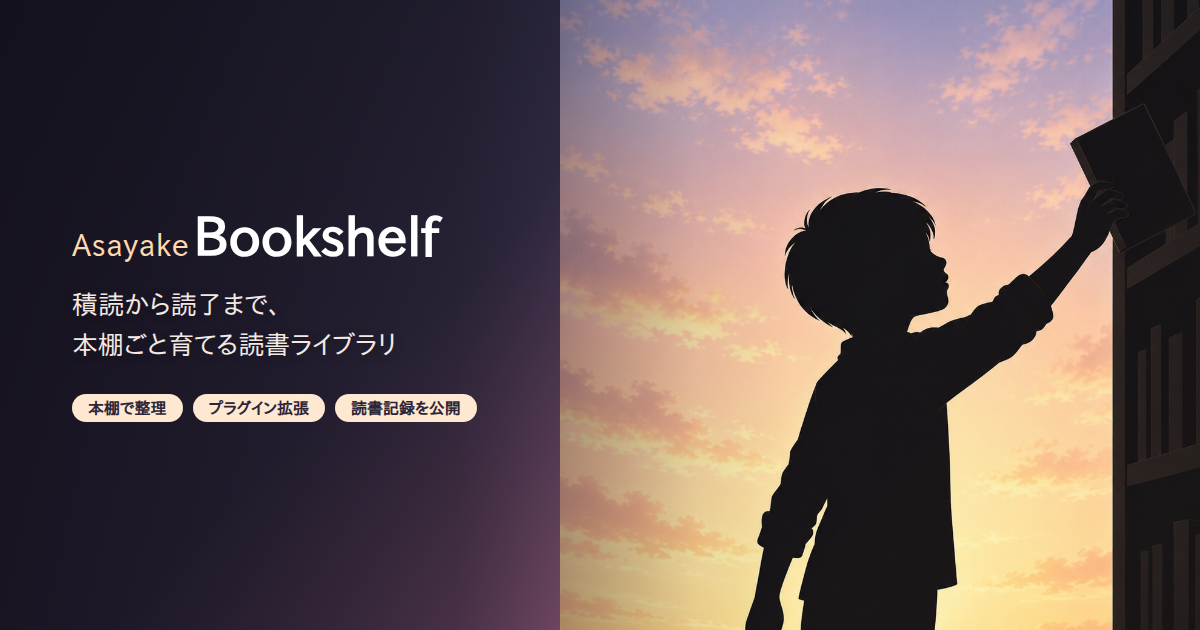
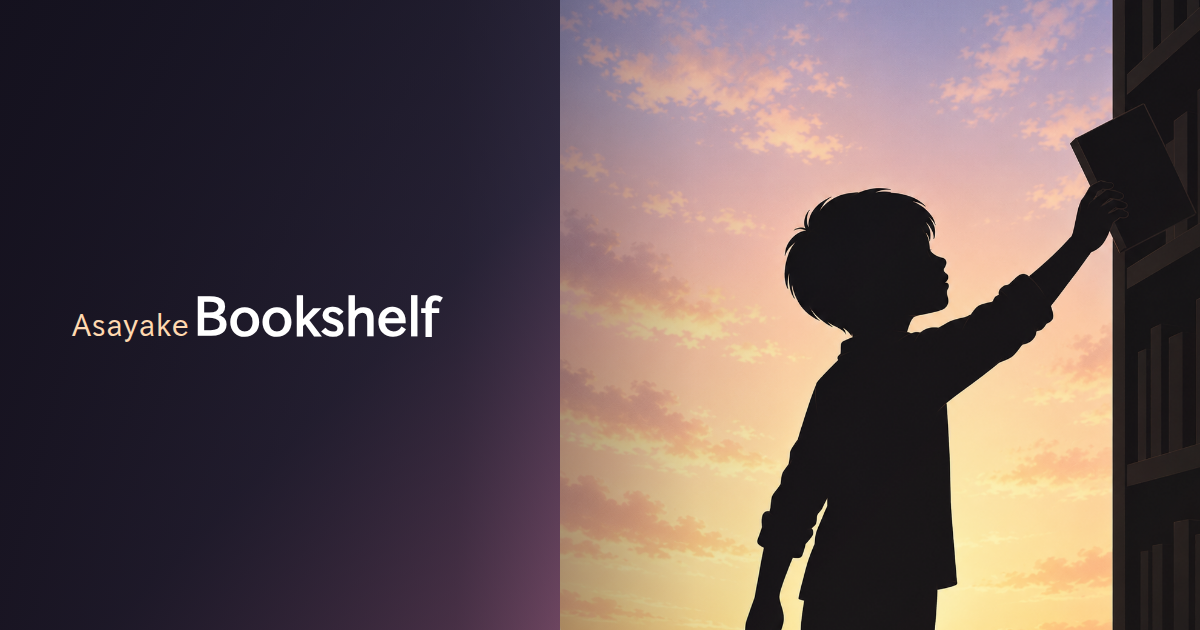
fix: T11 OGP画像を文言無しのロゴのみに・説明文を仮の機能列挙文言に統一 (ハヘロ決裁反映・イシュー#335)
ハヘロ決裁(10/24 03:22)「共有画像のデザインは概ね良いが文言に課題あり。コンセプトを明確にして
宣伝用記事作成などをしながら文言を固める」を受け、文言が固まるまでの仮対応。

- mockups/og-export.html・icons/og-image.png: キャッチ2行とバッジ3つを撤去。
  ロゴ(Asayake Bookshelf)と朝焼けイラストのみ。デザイン(配色・構図・左右の割り)は維持。
  ロゴは左ペインの縦中央に配置(座標で確認: word中心y=315, canvas中心y=315, diff=0)。
- index.html: <title>を案1「AsayakeBookshelf」に戻す。
- description/og:description/twitter:description/JSON-LDのdescriptionを、宣伝調を避けた
  仮の機能列挙文言に統一(「Kindle の蔵書を本棚ごとに整理し、メモや評価を付けて、読書記録を
  公開できるアプリ。」)。4箇所とも同一文字列。
- js/publish-article-generator.js: PROVISIONAL_DESCRIPTION定数を追加し、本棚トップ
  (_indexHtml)のog:description/JSON-LD descriptionもこれに統一(動的な「N件」文言から変更)。
  SHARED_OG_IMAGEの?v=を2026102402へバンプ。
- cf-worker/top-page.js: 同じPROVISIONAL_DESCRIPTION定数を追加(値は同文・別ファイルのため
  手動同期)し、/topの既定descriptionに適用。OG_IMAGE_URLの?v=も2026102402へバンプ。
- README.mdのキャッチも同じ仮の文言に揃える。
- scripts/verify/shot-335-ogp-compare.mjs: 比較画像(335-ogp-compare-AB.png)を同じパスで
  作り直し。

npm test 644件・publish-panel/publish-article-theme E2E 22件・check:versionいずれもpass。

push はまだしない。main には #337(ce2d1e6)等のレビュー中commitが積まれており、push順は②が決める。

Changed region(s): [[0.0617, 0.4524, 0.37, 0.573], [0.0617, 0.6032, 0.4008, 0.6937], [0.0617, 0.3317, 0.37, 0.4222]]

diff --git a/index.html b/index.html
@@ -3,8 +3,12 @@
 <head>
     <meta charset="UTF-8">
     <meta name="viewport" content="width=device-width, initial-scale=1.0, viewport-fit=cover">
-    <title>AsayakeBookshelf — 本棚で育てる読書ライブラリ</title>
-    <meta name="description" content="蔵書を本棚ごとに整理し、メモや評価をつけて管理できる読書ライブラリ。プラグインで拡張、読書記録の公開・共有もできます。">
+    <title>AsayakeBookshelf</title>
+    <!-- 仮の説明文 (T11・イシュー#335・2026-10-24 ②判断)。ハヘロ決裁「文言はコンセプトを詰める別作業で固める」まで、
+         宣伝調を避け機能だけを並べた文言に統一する。この下の4箇所 (description/og:description/twitter:description/
+         JSON-LDのdescription) は同一文字列＝差し替え時はこの4箇所をまとめて書き換える
+         (js/publish-article-generator.js の PublishArticleGenerator.PROVISIONAL_DESCRIPTION と同文)。 -->
+    <meta name="description" content="Kindle の蔵書を本棚ごとに整理し、メモや評価を付けて、読書記録を公開できるアプリ。">
     <link rel="canonical" href="https://asayake.org/bookshelf/">
     <meta name="robots" content="index,follow">
     <!-- Google AdSense（審査用スニペットのみ・広告ユニットは配置しない方針 2026-07-29） -->
@@ -16,17 +20,17 @@
 
     <!-- Open Graph / Twitter Card for social sharing (T11・イシュー#335) -->
     <meta property="og:title" content="AsayakeBookshelf">
-    <meta property="og:description" content="蔵書を本棚ごとに整理し、メモや評価をつけて管理できる読書ライブラリ。プラグインで拡張、読書記録の公開・共有もできます。">
+    <meta property="og:description" content="Kindle の蔵書を本棚ごとに整理し、メモや評価を付けて、読書記録を公開できるアプリ。">
     <meta property="og:type" content="website">
     <meta property="og:url" content="https://asayake.org/bookshelf/">
-    <meta property="og:image" content="https://asayake.org/bookshelf/icons/og-image.png?v=20261024">
+    <meta property="og:image" content="https://asayake.org/bookshelf/icons/og-image.png?v=2026102402">
     <meta property="og:image:width" content="1200">
     <meta property="og:image:height" content="630">
     <meta property="og:image:alt" content="AsayakeBookshelf">
     <meta name="twitter:card" content="summary_large_image">
     <meta name="twitter:title" content="AsayakeBookshelf">
-    <meta name="twitter:description" content="蔵書を本棚ごとに整理し、メモや評価をつけて管理できる読書ライブラリ。プラグインで拡張、読書記録の公開・共有もできます。">
-    <meta name="twitter:image" content="https://asayake.org/bookshelf/icons/og-image.png?v=20261024">
+    <meta name="twitter:description" content="Kindle の蔵書を本棚ごとに整理し、メモや評価を付けて、読書記録を公開できるアプリ。">
+    <meta name="twitter:image" content="https://asayake.org/bookshelf/icons/og-image.png?v=2026102402">
 
     <!-- 構造化データ (JSON-LD・T11) -->
     <script type="application/ld+json">
@@ -34,7 +38,7 @@
       "@context": "https://schema.org",
       "@type": "WebApplication",
       "name": "AsayakeBookshelf",
-      "description": "蔵書を本棚ごとに整理し、メモや評価をつけて管理できる読書ライブラリ。プラグインで拡張、読書記録の公開・共有もできます。",
+      "description": "Kindle の蔵書を本棚ごとに整理し、メモや評価を付けて、読書記録を公開できるアプリ。",
       "url": "https://asayake.org/bookshelf/",
       "applicationCategory": "UtilitiesApplication",
       "operatingSystem": "Web",
@@ -1428,7 +1432,7 @@
     <script defer src="js/publish-article-store.js?v=2026093001"></script>
     <script defer src="js/vendor/marked.umd.js?v=2026081501"></script>
     <script defer src="js/publish-ogp-image.js?v=2026102401"></script>
-    <script defer src="js/publish-article-generator.js?v=2026102401"></script>
+    <script defer src="js/publish-article-generator.js?v=2026102402"></script>
     <script defer src="js/exporter.js?v=2026092601"></script>
     <script defer src="js/plugin-api.js?v=2026092601"></script>
     <script defer src="js/plugin-loader.js?v=2026072701"></script>

diff --git a/js/publish-article-generator.js b/js/publish-article-generator.js
@@ -774,8 +774,9 @@ ${updated ? `<p class="pub-updated">最終更新 ${esc(updated)}</p>` : ''}
         const indexArticle = { title: `${publisher} の本棚`, tags: [], theme: {} };
         const indexCanonical = opts.siteBaseUrl ? `${String(opts.siteBaseUrl).replace(/\/+$/, '')}/` : '';
         // 一覧ページなので og:type は article ではなく website (T11・イシュー#335で修正)。
-        // ogDescription/ogImage は本棚ごとの個別生成ではなく、全ページ共通のブランド画像を使う(決裁B案)。
-        const indexOgDescription = `${publisher} が AsayakeBookshelf で公開している本棚記事、${articleLinks.length}件。`;
+        // ogDescription/ogImage は本棚ごとの個別生成ではなく、全ページ共通のブランド画像・仮の説明文を使う
+        // (決裁B案。文言は2026-10-24 ②判断でPROVISIONAL_DESCRIPTIONへ統一＝コンセプトが固まったら差し替える)。
+        const indexOgDescription = PublishArticleGenerator.PROVISIONAL_DESCRIPTION;
         const doc = this._wrapDoc(indexArticle, publisher, body, {
             siteHasAffiliate: !!opts.siteHasAffiliate,
             canonical: indexCanonical,
@@ -836,7 +837,14 @@ ${updated ? `<p class="pub-updated">最終更新 ${esc(updated)}</p>` : ''}
     // 本棚トップ(_indexHtml)・/top 共通のブランドOGP画像の絶対URL (T11・イシュー#335決裁B案)。
     // 記事別の自前生成(ADR-098・og.png)とは別物＝記事ページでは使わない。GitHub Pages配信のicons/を
     // そのまま参照するためcf-worker側の追加ホスティングは不要。
-    static get SHARED_OG_IMAGE() { return `${PublishArticleGenerator.APP_URL}icons/og-image.png?v=20261024`; }
+    // ?v= は画像を差し替えるたびに上げる (2026-10-24: キャッチ文言・バッジを外しロゴのみに変更)。
+    static get SHARED_OG_IMAGE() { return `${PublishArticleGenerator.APP_URL}icons/og-image.png?v=2026102402`; }
+
+    // 仮の説明文 (T11・イシュー#335・2026-10-24 ②判断)。ハヘロ決裁「共有画像のデザインは概ね良いが文言に
+    // 課題あり。コンセプトを明確にして宣伝用記事作成などをしながら文言を固める」を受け、固まるまでは
+    // 宣伝調を避け機能だけを並べた仮の文言に統一する。index.html の description/og:description/
+    // twitter:description/JSON-LDのdescription (4箇所・同一文字列) と同文＝差し替え時は両方を直す。
+    static get PROVISIONAL_DESCRIPTION() { return 'Kindle の蔵書を本棚ごとに整理し、メモや評価を付けて、読書記録を公開できるアプリ。'; }
 
     // og:description: 本文先頭のテキストブロックから約120字 (Markdown 記号は除く)。無ければタグ列、それも無ければ発行者名。
     _ogDescription(article, resolvedBlocks, publisher) {

diff --git a/cf-worker/top-page.js b/cf-worker/top-page.js
@@ -9,7 +9,14 @@ import { OPERATOR_EMAIL } from './suspended-page.js';
 // 全ページ共通のブランドOGP画像 (T11・イシュー#335決裁B案)。GitHub Pages配信の
 // js/publish-article-generator.js `SHARED_OG_IMAGE` と同一アセット・同一URLを指す
 // (cf-worker からは別ファイルのため定数を共有できず、ここは値を直書きで同期する)。
-const OG_IMAGE_URL = 'https://asayake.org/bookshelf/icons/og-image.png?v=20261024';
+// ?v= は画像を差し替えるたびに上げる (2026-10-24: キャッチ文言・バッジを外しロゴのみに変更)。
+const OG_IMAGE_URL = 'https://asayake.org/bookshelf/icons/og-image.png?v=2026102402';
+
+// 仮の説明文 (T11・イシュー#335・2026-10-24 ②判断)。ハヘロ決裁「共有画像のデザインは概ね良いが文言に
+// 課題あり。コンセプトを明確にして宣伝用記事作成などをしながら文言を固める」を受け、固まるまでは
+// 宣伝調を避け機能だけを並べた仮の文言に統一する。js/publish-article-generator.js の
+// PublishArticleGenerator.PROVISIONAL_DESCRIPTION と同文＝差し替え時は両方を直す。
+const PROVISIONAL_DESCRIPTION = 'Kindle の蔵書を本棚ごとに整理し、メモや評価を付けて、読書記録を公開できるアプリ。';
 
 function escapeHtml(s) {
     return String(s == null ? '' : s).replace(/[&<>"']/g, (c) => ({ '&': '&amp;', '<': '&lt;', '>': '&gt;', '"': '&quot;', "'": '&#39;' }[c]));
@@ -50,7 +57,7 @@ export async function renderTopPage(env, url) {
     const clearTag = tag ? `<a class="clear-tag" href="/top">すべての記事に戻る</a>` : '';
     const description = tag
         ? `「#${tag}」タグの公開記事一覧です。`
-        : 'AsayakeBookshelf で公開された本棚記事の一覧です。';
+        : PROVISIONAL_DESCRIPTION;
     const canonical = `${url.origin}/top${tag ? `?tag=${encodeURIComponent(tag)}` : ''}`;
     const jsonLd = {
         '@context': 'https://schema.org',

diff --git a/mockups/og-export.html b/mockups/og-export.html
@@ -4,6 +4,7 @@
   icons/source-art.png（ADR-025採用のイラスト）を右側に配置し、左の朝焼け空の余白にロゴ文字を置く。
   配色は08_意思決定記録.md ADR-025「朝焼けパレット」(夜空 #181b2c→#4a3b4e / グロー #ff9e7d / 暖色 #ffecd2→#fcb69f) を踏襲。
   使い方: file:// または http://localhost:8000/mockups/og-export.html を1200x630で開き、.canvas要素をスクショする。
+  2026-10-24 ハヘロ決裁(文言は別作業で固める)によりキャッチ2行・バッジ3つを撤去。ロゴのみ・左ペイン縦中央(#333)。
 -->
 <html lang="ja">
 <head>
@@ -29,12 +30,9 @@
     position: absolute; left: 72px; top: 0; bottom: 0; width: 640px;
     display: flex; flex-direction: column; justify-content: center;
   }
-  .word { display: flex; align-items: baseline; gap: 4px; margin-bottom: 22px; }
+  .word { display: flex; align-items: baseline; gap: 4px; }
   .word .asayake { font-size: 30px; font-weight: 600; color: #ffd9b0; letter-spacing: 0.02em; }
   .word .bookshelf { font-size: 54px; font-weight: 800; color: #ffffff; letter-spacing: -0.01em; }
-  .tagline { font-size: 26px; color: #f4e9e2; line-height: 1.55; font-weight: 500; max-width: 560px; text-shadow: 0 2px 10px rgba(0,0,0,.25); }
-  .pill-row { display: flex; gap: 10px; margin-top: 30px; }
-  .pill { font-size: 16px; color: #2d2638; background: #ffe8d1; padding: 6px 16px; border-radius: 999px; font-weight: 700; }
 </style>
 </head>
 <body>
@@ -43,12 +41,6 @@
     <div class="scrim"></div>
     <div class="content">
       <div class="word"><span class="asayake">Asayake</span><span class="bookshelf">Bookshelf</span></div>
-      <div class="tagline">積読から読了まで、<br>本棚ごと育てる読書ライブラリ</div>
-      <div class="pill-row">
-        <div class="pill">本棚で整理</div>
-        <div class="pill">プラグイン拡張</div>
-        <div class="pill">読書記録を公開</div>
-      </div>
     </div>
   </div>
 </body>

diff --git a/README.md b/README.md
@@ -2,7 +2,10 @@
 
 ![AsayakeBookshelf](icons/og-image.png)
 
-**積読から読了まで、本棚ごと育てる読書ライブラリ。**
+**Kindle の蔵書を本棚ごとに整理し、メモや評価を付けて、読書記録を公開できるアプリ。**
+
+<!-- 仮の文言 (T11・イシュー#335・2026-10-24 ②判断)。コンセプトを詰める別作業で固めるまでは、
+     index.html・js/publish-article-generator.js・cf-worker/top-page.js と同じ機能列挙の文言に揃える。 -->
 
 蔵書を本棚ごとに整理し、メモや評価をつけて管理できます。プラグインで拡張でき、読んだ本を公開して共有することもできます。
 
